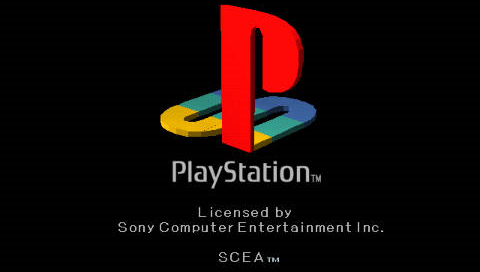
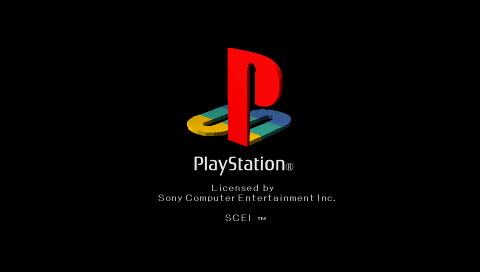
Update package
Update NuGet package and Splash images.

Changed region(s): [[0.25, 0.0, 0.8125, 0.8529], [0.4375, 0.9118, 0.5938, 0.9706]]

diff --git a/LibChovy/Art/Resizer.cs b/LibChovy/Art/Resizer.cs
@@ -3,6 +3,8 @@ using System.Collections.Generic;
 using System.Linq;
 using System.Text;
 using System.Threading.Tasks;
+using SixLabors.ImageSharp;
+using SixLabors.ImageSharp.Processing;
 
 namespace LibChovy.Art
 {

diff --git a/LibChovy/Art/Downloader.cs b/LibChovy/Art/Downloader.cs
@@ -1,4 +1,5 @@
 using GameBuilder.Pops;
+using SixLabors.ImageSharp;
 using SixLabors.ImageSharp.Processing;
 using System;
 using System.Collections.Generic;

diff --git a/README.md b/README.md
@@ -1,6 +1,8 @@
 # chovy-sign-mod
  Only the UI and the splash screen of "Chovy-Sign" are modified, and the C# code remains the original.
- - The completed sound is silent
+ - Completed sound is silent
  - Replace the PSP splash screen with the original
- - Replace the Splash screen of PS1 to the original
+ - Replace the Splash screen of PS to the original
+ - Fix vulnerabilities and update package
+ - Compiled MSVS 2022
   #### thx [LiEnby](https://github.com/LiEnby/chovy-sign "chovy-sign")
